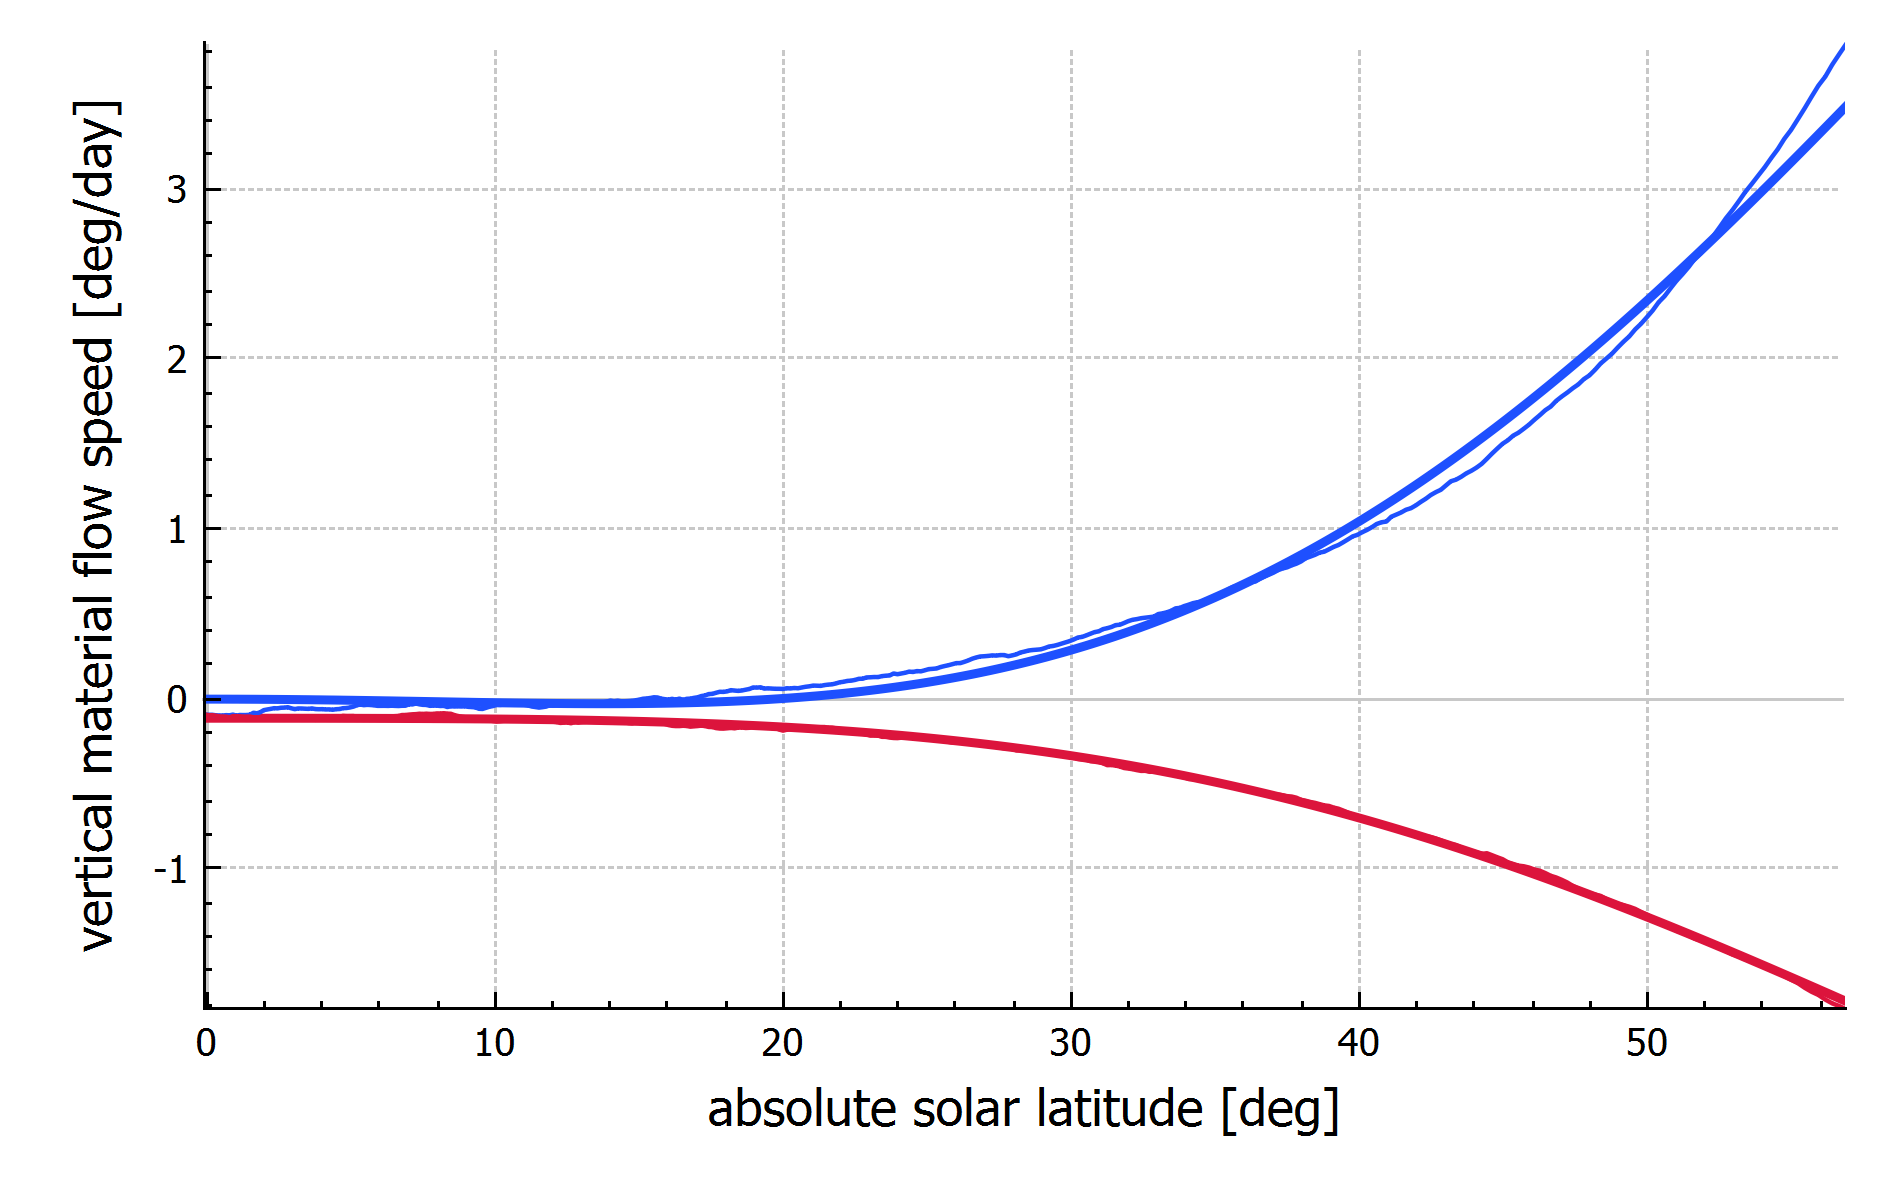
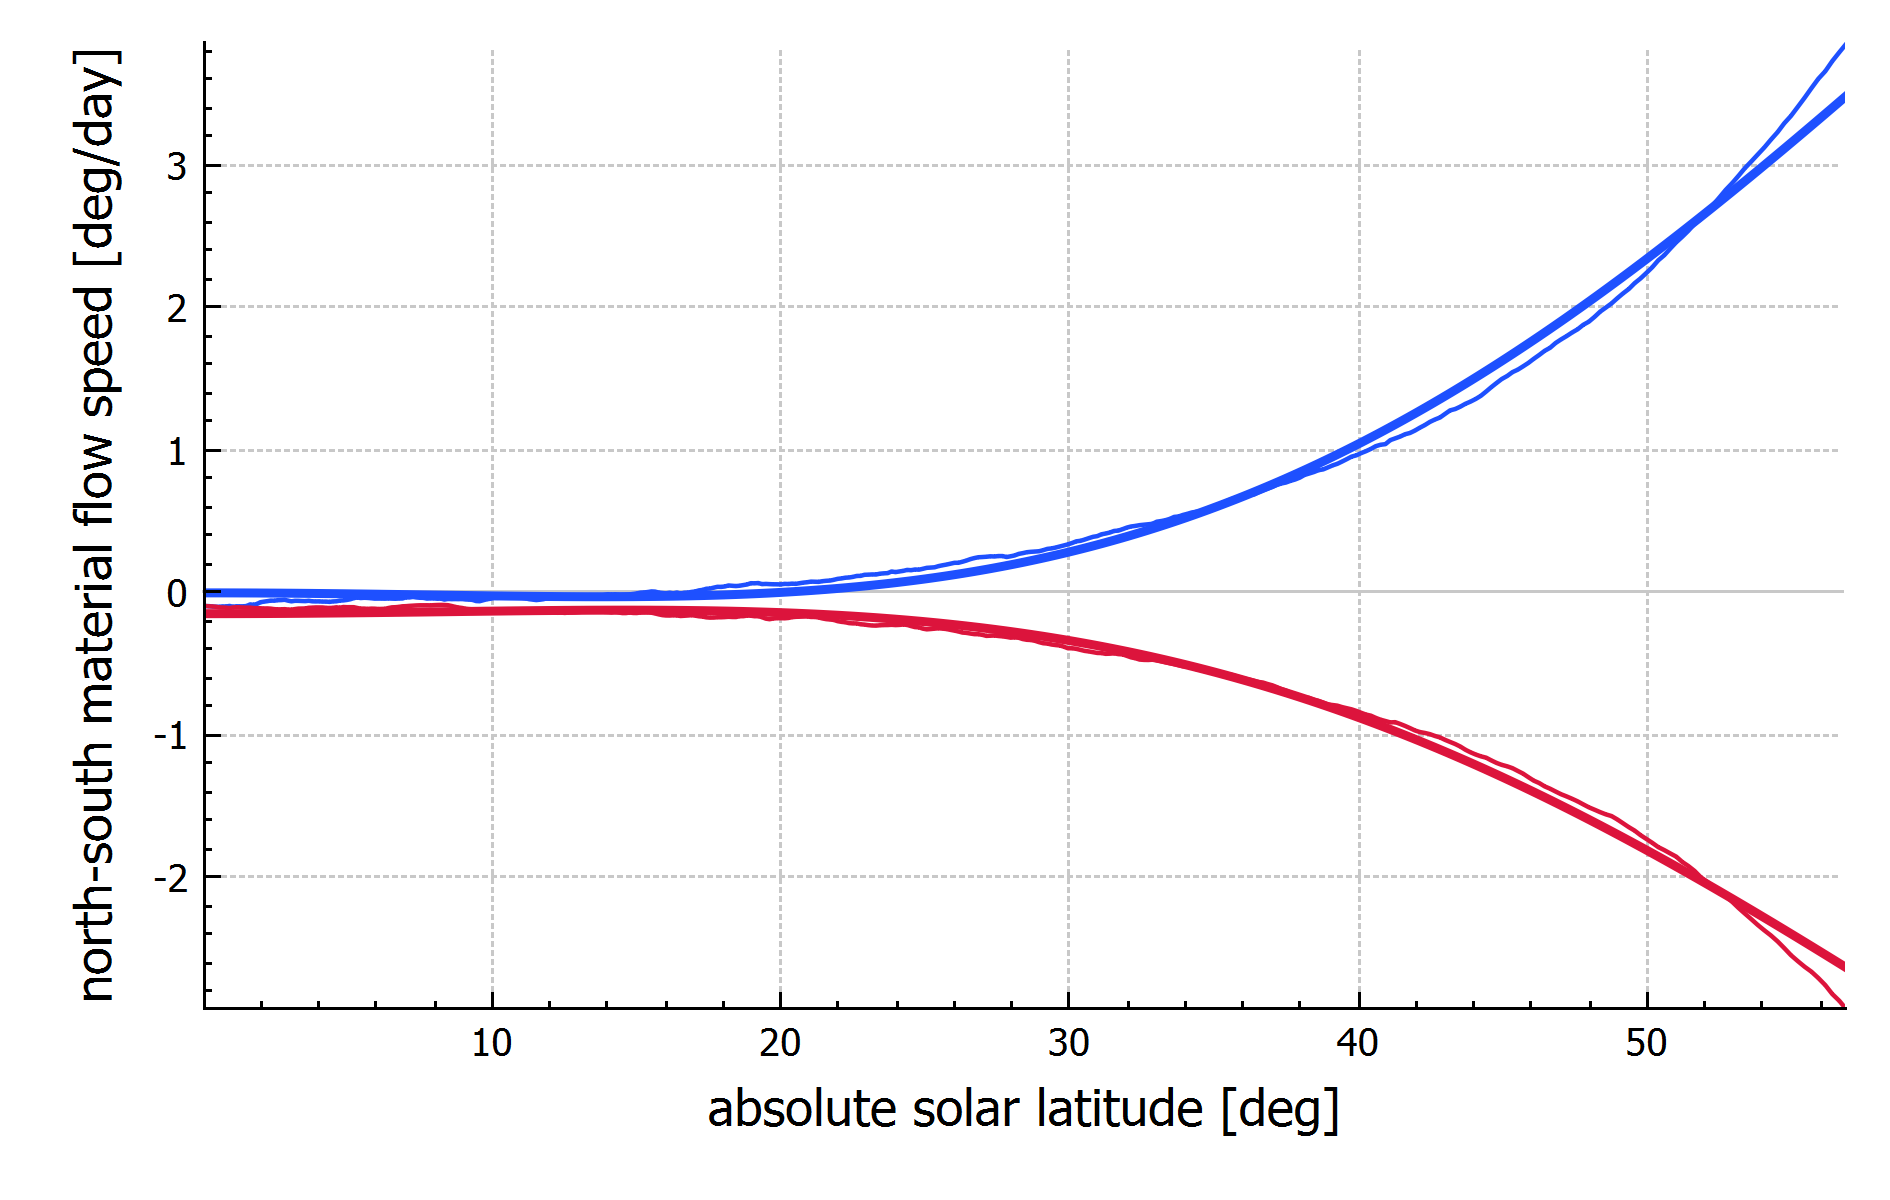
fix NS plot finally

diff --git a/Zdeny_PhD_Shenanigans/Plot/Plot1D.h b/Zdeny_PhD_Shenanigans/Plot/Plot1D.h
@@ -9,79 +9,52 @@ using namespace Constants;
 class Plot1D
 {
 public:
+  static void CloseAll();
 
-	static void CloseAll();
+  static void Reset(std::string name);
 
-	static void Reset( std::string name );
+  // x - y add data
+  static void plot(double x, double y, std::string name, std::string xlabel = "x", std::string ylabel = "y", QPen pen = Plot::defaultpen, std::string savepath = emptystring) { return plotcore(x, std::vector<double>{y}, emptyvect, name, xlabel, ylabel, emptystring, emptyvectstring, emptyvectstring, {pen}, savepath); }
 
-	// x - y add data
-	static void plot( double x, double y, std::string name, std::string xlabel = "x", std::string ylabel = "y", std::vector<QPen> pens = Plot::defaultpens, std::string savepath = emptystring )
-	{
-		return plotcore( x, std::vector<double> {y}, emptyvect, name, xlabel, ylabel, emptystring, emptyvectstring, emptyvectstring, pens, savepath );
-	}
+  // x - y1/y2 add data
+  static void plot(double x, double y1, double y2, std::string name, std::string xlabel = "x", std::string y1label = "y1", std::string y2label = "y2", std::vector<QPen> pens = Plot::defaultpens, std::string savepath = emptystring) { return plotcore(x, std::vector<double>{y1}, std::vector<double>{y2}, name, xlabel, y1label, y2label, std::vector<std::string>{y1label}, std::vector<std::string>{y2label}, pens, savepath); }
 
-	// x - y1/y2 add data
-	static void plot( double x, double y1, double y2, std::string name, std::string xlabel = "x", std::string y1label = "y1", std::string y2label = "y2", std::vector<QPen> pens = Plot::defaultpens, std::string savepath = emptystring )
-	{
-		return plotcore( x, std::vector<double> {y1}, std::vector<double> {y2}, name, xlabel, y1label, y2label, std::vector<std::string> {y1label}, std::vector<std::string> {y2label}, pens, savepath );
-	}
+  // x - ys add data
+  static void plot(double x, const std::vector<double> &ys, std::string name, std::string xlabel = "x", std::string ylabel = "y", std::vector<std::string> ynames = emptyvectstring, std::vector<QPen> pens = Plot::defaultpens, std::string savepath = emptystring) { return plotcore(x, ys, emptyvect, name, xlabel, ylabel, emptystring, ynames, emptyvectstring, pens, savepath); }
 
-	// x - ys add data
-	static void plot( double x, const std::vector<double> &ys, std::string name, std::string xlabel = "x", std::string ylabel = "y", std::vector<std::string> ynames = emptyvectstring, std::vector<QPen> pens = Plot::defaultpens, std::string savepath = emptystring )
-	{
-		return plotcore( x, ys, emptyvect, name, xlabel, ylabel, emptystring, ynames, emptyvectstring, pens, savepath );
-	}
+  // x - y1s/y2s add data
+  static void plot(double x, const std::vector<double> &y1s, const std::vector<double> &y2s, std::string name, std::string xlabel = "x", std::string y1label = "y1", std::string y2label = "y2", std::vector<std::string> y1names = emptyvectstring, std::vector<std::string> y2names = emptyvectstring, std::vector<QPen> pens = Plot::defaultpens, std::string savepath = emptystring) { return plotcore(x, y1s, y2s, name, xlabel, y1label, y2label, y1names, y2names, pens, savepath); }
 
-	// x - y1s/y2s add data
-	static void plot( double x, const std::vector<double> &y1s, const std::vector<double> &y2s, std::string name, std::string xlabel = "x", std::string y1label = "y1", std::string y2label = "y2", std::vector<std::string> y1names = emptyvectstring, std::vector<std::string> y2names = emptyvectstring, std::vector<QPen> pens = Plot::defaultpens, std::string savepath = emptystring )
-	{
-		return plotcore( x, y1s, y2s, name, xlabel, y1label, y2label, y1names, y2names, pens, savepath );
-	}
+  // iota - y replot data
+  static void plot(const std::vector<double> &y, std::string name, std::string xlabel = "x", std::string ylabel = "y", std::vector<QPen> pens = Plot::defaultpens, std::string savepath = emptystring)
+  {
+    std::vector<double> x(y.size());
+    std::iota(x.begin(), x.end(), 0);
+    return plotcore(x, std::vector<std::vector<double>>{y}, emptyvect2, name, xlabel, ylabel, emptystring, emptyvectstring, emptyvectstring, pens, savepath);
+  }
 
-	// iota - y replot data
-	static void plot( const std::vector<double> &y, std::string name, std::string xlabel = "x", std::string ylabel = "y", std::vector<QPen> pens = Plot::defaultpens, std::string savepath = emptystring )
-	{
-		std::vector<double> x( y.size() );
-		std::iota( x.begin(), x.end(), 0 );
-		return plotcore( x, std::vector<std::vector<double>> {y}, emptyvect2, name, xlabel, ylabel, emptystring, emptyvectstring, emptyvectstring, pens, savepath );
-	}
+  // x - y replot data
+  static void plot(const std::vector<double> &x, const std::vector<double> &y, std::string name, std::string xlabel = "x", std::string ylabel = "y", QPen pen = Plot::defaultpen, std::string savepath = emptystring) { return plotcore(x, std::vector<std::vector<double>>{y}, emptyvect2, name, xlabel, ylabel, emptystring, emptyvectstring, emptyvectstring, {pen}, savepath); }
 
-	// x - y replot data
-	static void plot( const std::vector<double> &x, const std::vector<double> &y, std::string name, std::string xlabel = "x", std::string ylabel = "y", std::vector<QPen> pens = Plot::defaultpens, std::string savepath = emptystring )
-	{
-		return plotcore( x, std::vector<std::vector<double>> {y}, emptyvect2, name, xlabel, ylabel, emptystring, emptyvectstring, emptyvectstring, pens, savepath );
-	}
+  // x - y1/y2 replot data
+  static void plot(const std::vector<double> &x, const std::vector<double> &y1, const std::vector<double> &y2, std::string name, std::string xlabel = "x", std::string y1label = "y1", std::string y2label = "y1", std::vector<QPen> pens = Plot::defaultpens, std::string savepath = emptystring) { return plotcore(x, std::vector<std::vector<double>>{y1}, std::vector<std::vector<double>>{y2}, name, xlabel, y1label, y2label, std::vector<std::string>{y1label}, std::vector<std::string>{y2label}, pens, savepath); }
 
-	// x - y1/y2 replot data
-	static void plot( const std::vector<double> &x, const std::vector<double> &y1, const std::vector<double> &y2, std::string name, std::string xlabel = "x", std::string y1label = "y1", std::string y2label = "y1", std::vector<QPen> pens = Plot::defaultpens, std::string savepath = emptystring )
-	{
-		return plotcore( x, std::vector<std::vector<double>> {y1}, std::vector<std::vector<double>> {y2}, name, xlabel, y1label, y2label, std::vector<std::string> {y1label}, std::vector<std::string> {y2label}, pens, savepath );
-	}
+  // x - ys replot data
+  static void plot(const std::vector<double> &x, const std::vector<std::vector<double>> &ys, std::string name, std::string xlabel = "x", std::string ylabel = "y", std::vector<std::string> ynames = emptyvectstring, std::vector<QPen> pens = Plot::defaultpens, std::string savepath = emptystring) { return plotcore(x, ys, emptyvect2, name, xlabel, ylabel, emptystring, ynames, emptyvectstring, pens, savepath); }
 
-	// x - ys replot data
-	static void plot( const std::vector<double> &x, const std::vector<std::vector<double>> &ys, std::string name, std::string xlabel = "x", std::string ylabel = "y", std::vector<std::string> ynames = emptyvectstring, std::vector<QPen> pens = Plot::defaultpens, std::string savepath = emptystring )
-	{
-		return plotcore( x, ys, emptyvect2, name, xlabel, ylabel, emptystring, ynames, emptyvectstring, pens, savepath );
-	}
+  // x - ys1/ys2 replot data
+  static void plot(const std::vector<double> &x, const std::vector<std::vector<double>> &y1s, const std::vector<std::vector<double>> &y2s, std::string name, std::string xlabel = "x", std::string y1label = "y1", std::string y2label = "y2", std::vector<std::string> y1names = emptyvectstring, std::vector<std::string> y2names = emptyvectstring, std::vector<QPen> pens = Plot::defaultpens, std::string savepath = emptystring) { return plotcore(x, y1s, y2s, name, xlabel, y1label, y2label, y1names, y2names, pens, savepath); }
 
-	// x - ys1/ys2 replot data
-	static void plot( const std::vector<double> &x, const std::vector<std::vector<double>> &y1s, const std::vector<std::vector<double>> &y2s, std::string name, std::string xlabel = "x", std::string y1label = "y1", std::string y2label = "y2", std::vector<std::string> y1names = emptyvectstring, std::vector<std::string> y2names = emptyvectstring, std::vector<QPen> pens = Plot::defaultpens, std::string savepath = emptystring )
-	{
-		return plotcore( x, y1s, y2s, name, xlabel, y1label, y2label, y1names, y2names, pens, savepath );
-	}
+  // replot data core
+  static void plotcore(const std::vector<double> &x, const std::vector<std::vector<double>> &y1s, const std::vector<std::vector<double>> &y2s, std::string name, std::string xlabel = "x", std::string y1label = "y1", std::string y2label = "y2", std::vector<std::string> y1names = emptyvectstring, std::vector<std::string> y2names = emptyvectstring, std::vector<QPen> pens = Plot::defaultpens, std::string savepath = emptystring);
 
-	// replot data core
-	static void plotcore( const std::vector<double> &x, const std::vector<std::vector<double>> &y1s, const std::vector<std::vector<double>> &y2s, std::string name, std::string xlabel = "x", std::string y1label = "y1", std::string y2label = "y2", std::vector<std::string> y1names = emptyvectstring, std::vector<std::string> y2names = emptyvectstring, std::vector<QPen> pens = Plot::defaultpens, std::string savepath = emptystring );
-
-	// add data core
-	static void plotcore( double x, const std::vector<double> &y1s, const std::vector<double> &y2s, std::string name, std::string xlabel = "x", std::string y1label = "y1", std::string y2label = "y2", std::vector<std::string> y1names = emptyvectstring, std::vector<std::string> y2names = emptyvectstring, std::vector<QPen> pens = Plot::defaultpens, std::string savepath = emptystring );
+  // add data core
+  static void plotcore(double x, const std::vector<double> &y1s, const std::vector<double> &y2s, std::string name, std::string xlabel = "x", std::string y1label = "y1", std::string y2label = "y2", std::vector<std::string> y1names = emptyvectstring, std::vector<std::string> y2names = emptyvectstring, std::vector<QPen> pens = Plot::defaultpens, std::string savepath = emptystring);
 
 private:
+  static std::function<void(std::string)> OnClose;
 
-	static std::function<void( std::string )> OnClose;
+  static void SetupGraph(WindowPlot *windowPlot, int ycnt, int y1cnt, int y2cnt, std::string xlabel, std::string y1label, std::string y2label, std::vector<std::string> &y1names, std::vector<std::string> &y2names, std::vector<QPen> pens);
 
-	static void SetupGraph( WindowPlot *windowPlot, int ycnt, int y1cnt, int y2cnt, std::string xlabel, std::string y1label, std::string y2label, std::vector<std::string> &y1names, std::vector<std::string> &y2names, std::vector<QPen> pens );
-
-	static WindowPlot *RefreshGraph( std::string name, int ycnt, int y1cnt, int y2cnt, std::string xlabel, std::string y1label, std::string y2label, std::vector<std::string> &y1names, std::vector<std::string> &y2names, std::vector<QPen> pens );
-
+  static WindowPlot *RefreshGraph(std::string name, int ycnt, int y1cnt, int y2cnt, std::string xlabel, std::string y1label, std::string y2label, std::vector<std::string> &y1names, std::vector<std::string> &y2names, std::vector<QPen> pens);
 };

diff --git a/Zdeny_PhD_Shenanigans/Astrophysics/diffrotResults.h b/Zdeny_PhD_Shenanigans/Astrophysics/diffrotResults.h
@@ -263,17 +263,44 @@ private:
     ShiftsYErrorsTop = SourceShiftsYavg + ShiftsYErrors;
   }
 
+  double Interpolate(const std::vector<double> &xs, const std::vector<double> &ys, double x)
+  {
+    int l, u;
+    double r;
+
+    for (int i = 0; i < xs.size() - 2; ++i)
+    {
+      if (xs[i] < x && xs[i + 1] > x)
+      {
+        l = i;
+        u = i + 1;
+        r = (x - xs[l]) / (xs[u] - xs[l]);
+        break;
+      }
+
+      if (xs[i] > x && xs[i + 1] < x)
+      {
+        u = i;
+        l = i + 1;
+        r = (x - xs[l]) / (xs[u] - xs[l]);
+        break;
+      }
+    }
+
+    return ys[l] + r * (ys[u] - ys[l]);
+  }
+
   void CalculateNS()
   {
     PredicXsNS.resize(predicCnt);
 
     int zeroidx = 0;
-    for (int i = 0; i < SourceThetasavg.size() - 1; i++)
+    for (int i = 0; i < SourceThetasavg.size() - 2; ++i)
     {
       if ((SourceThetasavg[i] > 0 && SourceThetasavg[i + 1] < 0) || SourceThetasavg[i] == 0)
       {
-        zeroidx = i + 1;
-        LOG_DEBUG("Diffrot NS zeroidx = {} / {}", zeroidx, SourceThetasavg.size());
+        zeroidx = i;
+        LOG_DEBUG("Diffrot NS zeroidx = {}, ({} => {})", zeroidx, SourceThetasavg[i], SourceThetasavg[i + 1]);
         break;
       }
     }
@@ -285,11 +312,26 @@ private:
     OmegasXavgN = std::vector<double>(SourceOmegasXavg.begin(), SourceOmegasXavg.begin() + zeroidx + 1);
     OmegasYavgN = std::vector<double>(SourceOmegasYavg.begin(), SourceOmegasYavg.begin() + zeroidx + 1);
 
+    LOG_DEBUG("<NS> Last North theta = {}", ThetasNS.back());
+
     // south hemisphere
-    OmegasXavgS = std::vector<double>(SourceOmegasXavg.begin() + zeroidx, SourceOmegasXavg.begin() + 2 * zeroidx + 1);
-    OmegasYavgS = std::vector<double>(SourceOmegasYavg.begin() + zeroidx, SourceOmegasYavg.begin() + 2 * zeroidx + 1);
-    std::reverse(OmegasXavgS.begin(), OmegasXavgS.end());
-    std::reverse(OmegasYavgS.begin(), OmegasYavgS.end());
+    OmegasXavgS.resize(OmegasXavgN.size());
+    OmegasYavgS.resize(OmegasXavgS.size());
+
+    for (int i = 0; i < OmegasXavgN.size(); i++)
+    {
+      OmegasXavgS[i] = Interpolate(SourceThetasavg, SourceOmegasXavg, -ThetasNS[i]);
+      OmegasYavgS[i] = Interpolate(SourceThetasavg, SourceOmegasYavg, -ThetasNS[i]);
+    }
+
+    if (OmegasXavgN.size() != OmegasXavgS.size() || OmegasYavgN.size() != OmegasYavgS.size())
+    {
+      LOG_ERROR("<NS> NS sizes mismatch: {} != {} & {} != {}", OmegasXavgN.size(), OmegasXavgS.size(), OmegasYavgN.size(), OmegasYavgS.size());
+      throw;
+    }
+
+    LOG_DEBUG("<NS> NS equator values X: {} = {}", OmegasXavgN.back(), OmegasXavgS.back());
+    LOG_DEBUG("<NS> NS equator values Y: {} = {}", OmegasYavgN.back(), OmegasYavgS.back());
   }
 
   void CalculateFitCoeffs()

diff --git a/Zdeny_PhD_Shenanigans/Plot/Plot.cpp b/Zdeny_PhD_Shenanigans/Plot/Plot.cpp
@@ -3,43 +3,44 @@
 #include "Gui/Windows/Plot/WindowPlot.h"
 
 std::map<std::string, WindowPlot *> Plot::plots;
-QFont Plot::fontTicks( "Newyork", 13 );//9
-QFont Plot::fontLabels( "Newyork", 17 );//12
-QColor Plot::blue( 30, 80, 255 );
-QColor Plot::red( 220, 20, 60 );
-QColor Plot::green( 119, 182, 48 );
-QColor Plot::black( 50, 50, 50 );
-QColor Plot::orange( 255, 165, 0 );
-QColor Plot::cyan( 64, 224, 208 );
-QColor Plot::magenta( 150, 0, 150 );
-std::vector<QPen> Plot::defaultpens{ QPen( blue ), QPen( red ), QPen( green ), QPen( black ), QPen( orange ), QPen( cyan ), QPen( magenta ) };
+QFont Plot::fontTicks("Newyork", 13);  // 9
+QFont Plot::fontLabels("Newyork", 17); // 12
+QColor Plot::blue(30, 80, 255);
+QColor Plot::red(220, 20, 60);
+QColor Plot::green(119, 182, 48);
+QColor Plot::black(50, 50, 50);
+QColor Plot::orange(255, 165, 0);
+QColor Plot::cyan(64, 224, 208);
+QColor Plot::magenta(150, 0, 150);
+std::vector<QPen> Plot::defaultpens{QPen(blue, 2), QPen(red, 2), QPen(green, 2), QPen(black, 2), QPen(orange, 2), QPen(cyan, 2), QPen(magenta, 2)};
+QPen Plot::defaultpen(blue, 3);
 
-QPoint Plot::GetNewPlotPosition( WindowPlot *windowPlot )
+QPoint Plot::GetNewPlotPosition(WindowPlot *windowPlot)
 {
-	int w = 0;
-	int h = 0;
-	for ( auto &plot : plots )
-	{
-		if ( w + plot.second->width() > QApplication::desktop()->width() )
-		{
-			w = plot.second->width();
-			h += plot.second->height() + 25;
-			if ( h  > QApplication::desktop()->height() )
-				h = 0;
-		}
-		else
-		{
-			w += plot.second->width();
-		}
-	}
+  int w = 0;
+  int h = 0;
+  for (auto &plot : plots)
+  {
+    if (w + plot.second->width() > QApplication::desktop()->width())
+    {
+      w = plot.second->width();
+      h += plot.second->height() + 25;
+      if (h > QApplication::desktop()->height())
+        h = 0;
+    }
+    else
+    {
+      w += plot.second->width();
+    }
+  }
 
-	if ( w + windowPlot->width() > QApplication::desktop()->width() )
-	{
-		w = 0;
-		h += windowPlot->height() + 25;
-		if ( h > QApplication::desktop()->height() )
-			h = 0;
-	}
+  if (w + windowPlot->width() > QApplication::desktop()->width())
+  {
+    w = 0;
+    h += windowPlot->height() + 25;
+    if (h > QApplication::desktop()->height())
+      h = 0;
+  }
 
-	return QPoint( w, h );
+  return QPoint(w, h);
 }

diff --git a/Zdeny_PhD_Shenanigans/Gui/Windows/Diffrot/WindowDiffrot.cpp b/Zdeny_PhD_Shenanigans/Gui/Windows/Diffrot/WindowDiffrot.cpp
@@ -203,28 +203,45 @@ void WindowDiffrot::movingPeak()
   IPCsettings ipcset = *globals->IPCset;
   ipcset.save = true;
   ipcset.savedir = ui.lineEdit_9->text().toStdString();
-  FitsTime time = GetStartFitsTime();
   FitsImage pic1, pic2;
   int lag1, lag2;
+  bool saveimgs = false;
 
-  for (int pic = 0; pic < drset.pics; ++pic)
+  std::vector<double> dts;
+  std::vector<std::vector<double>> shiftsX;
+
+  const int profiles = 1;
+
+  for (int profile = 0; profile < profiles; ++profile)
   {
-    time.advanceTime((bool)pic * (drset.sPic - drset.dPic) * drset.dSec);
-    loadFitsFuzzy(pic1, time, lag1);
-    time.advanceTime(drset.dPic * drset.dSec);
-    loadFitsFuzzy(pic2, time, lag2);
-
-    if (pic1.params().succload && pic2.params().succload)
+    int sy = 0;
+    LOG_DEBUG("profile {} ...", profile);
+    shiftsX.push_back({});
+    for (int dpic = 0; dpic < drset.pics; ++dpic)
     {
-      Mat crop1 = roicrop(pic1.image(), pic1.params().fitsMidX, pic1.params().fitsMidY, ipcset.getcols(), ipcset.getrows());
-      Mat crop2 = roicrop(pic2.image(), pic2.params().fitsMidX, pic2.params().fitsMidY, ipcset.getcols(), ipcset.getrows());
-      auto shift = phasecorrel(std::move(crop1), std::move(crop2), ipcset, true);
+      FitsTime time = GetStartFitsTime();
+      loadFitsFuzzy(pic1, time, lag1);
+      time.advanceTime(dpic * drset.dSec);
+      loadFitsFuzzy(pic2, time, lag2);
+
+      if (pic1.params().succload && pic2.params().succload)
+      {
+        Mat crop1 = roicrop(pic1.image(), pic1.params().fitsMidX, pic1.params().fitsMidY + sy, ipcset.getcols(), ipcset.getrows());
+        Mat crop2 = roicrop(pic2.image(), pic2.params().fitsMidX, pic2.params().fitsMidY + sy, ipcset.getcols(), ipcset.getrows());
+        auto shift = phasecorrel(std::move(crop1), std::move(crop2), ipcset, saveimgs);
+
+        if (!profile)
+          dts.push_back((double)dpic * drset.dSec / 60);
+
+        shiftsX[profile].push_back(shift.x);
+      }
     }
-    else
-      return;
+    profile++;
   }
+
   destroyAllWindows();
-  return;
+
+  Plot1D::plot(dts, shiftsX, "shiftsX", "time step [min]", "west-east image shift [px]", {}, Plot::defaultpens, ipcset.savedir + "plot.png");
 }
 
 FitsTime WindowDiffrot::GetStartFitsTime()

diff --git a/Zdeny_PhD_Shenanigans/Plot/Plot.h b/Zdeny_PhD_Shenanigans/Plot/Plot.h
@@ -5,20 +5,19 @@
 class Plot
 {
 public:
+  static std::map<std::string, WindowPlot *> plots;
+  static QFont fontTicks;
+  static QFont fontLabels;
+  static QPoint GetNewPlotPosition(WindowPlot *windowPlot);
+  static std::vector<QPen> defaultpens;
+  static QPen defaultpen;
 
-	static std::map<std::string, WindowPlot *> plots;
-	static QFont fontTicks;
-	static QFont fontLabels;
-	static QPoint GetNewPlotPosition( WindowPlot *windowPlot );
-	static std::vector<QPen> defaultpens;
-
-	//plot colors
-	static QColor blue;
-	static QColor black;
-	static QColor red;
-	static QColor orange;
-	static QColor cyan;
-	static QColor magenta;
-	static QColor green;
-
+  // plot colors
+  static QColor blue;
+  static QColor black;
+  static QColor red;
+  static QColor orange;
+  static QColor cyan;
+  static QColor magenta;
+  static QColor green;
 };

diff --git a/Zdeny_PhD_Shenanigans/IPC/IPC.h b/Zdeny_PhD_Shenanigans/IPC/IPC.h
@@ -46,7 +46,7 @@ public:
   bool save = false;
   string savedir = "";
   cv::Size savesize = cv::Size(500, 500);
-  mutable size_t savecntr = 0;
+  mutable int savecntr = -1;
 
   IPCsettings(int Rows, int Cols, double StdevLmultiplier, double StdevHmultiplier) : rows(Rows), cols(Cols), stdevLmultiplier(StdevLmultiplier), stdevHmultiplier(StdevHmultiplier)
   {
